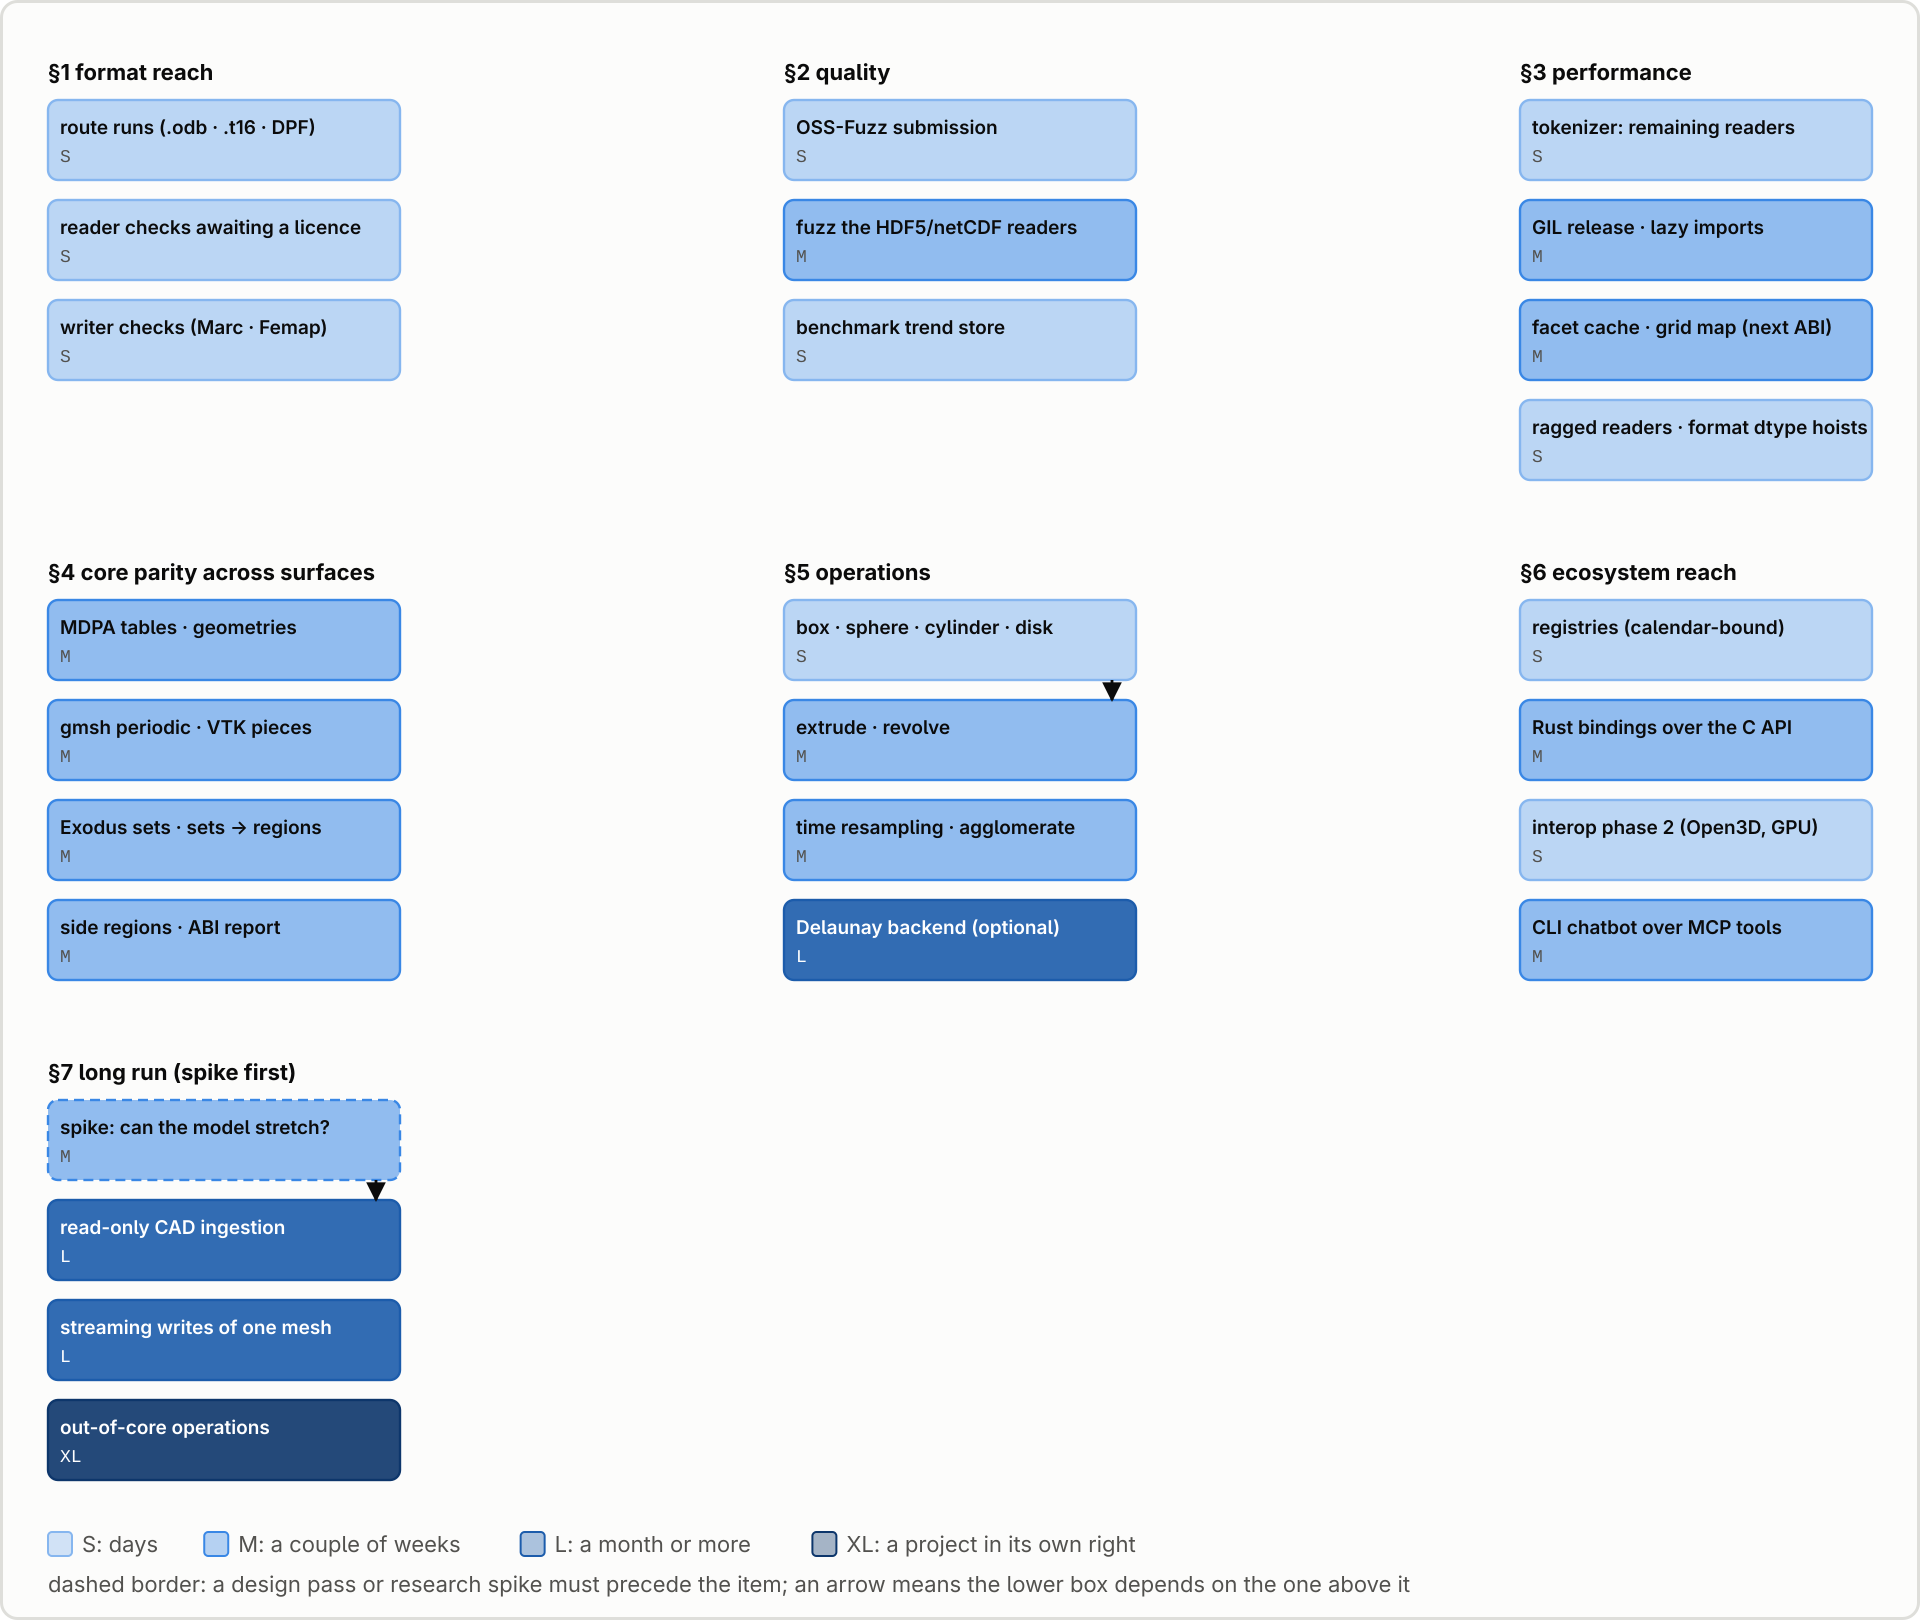
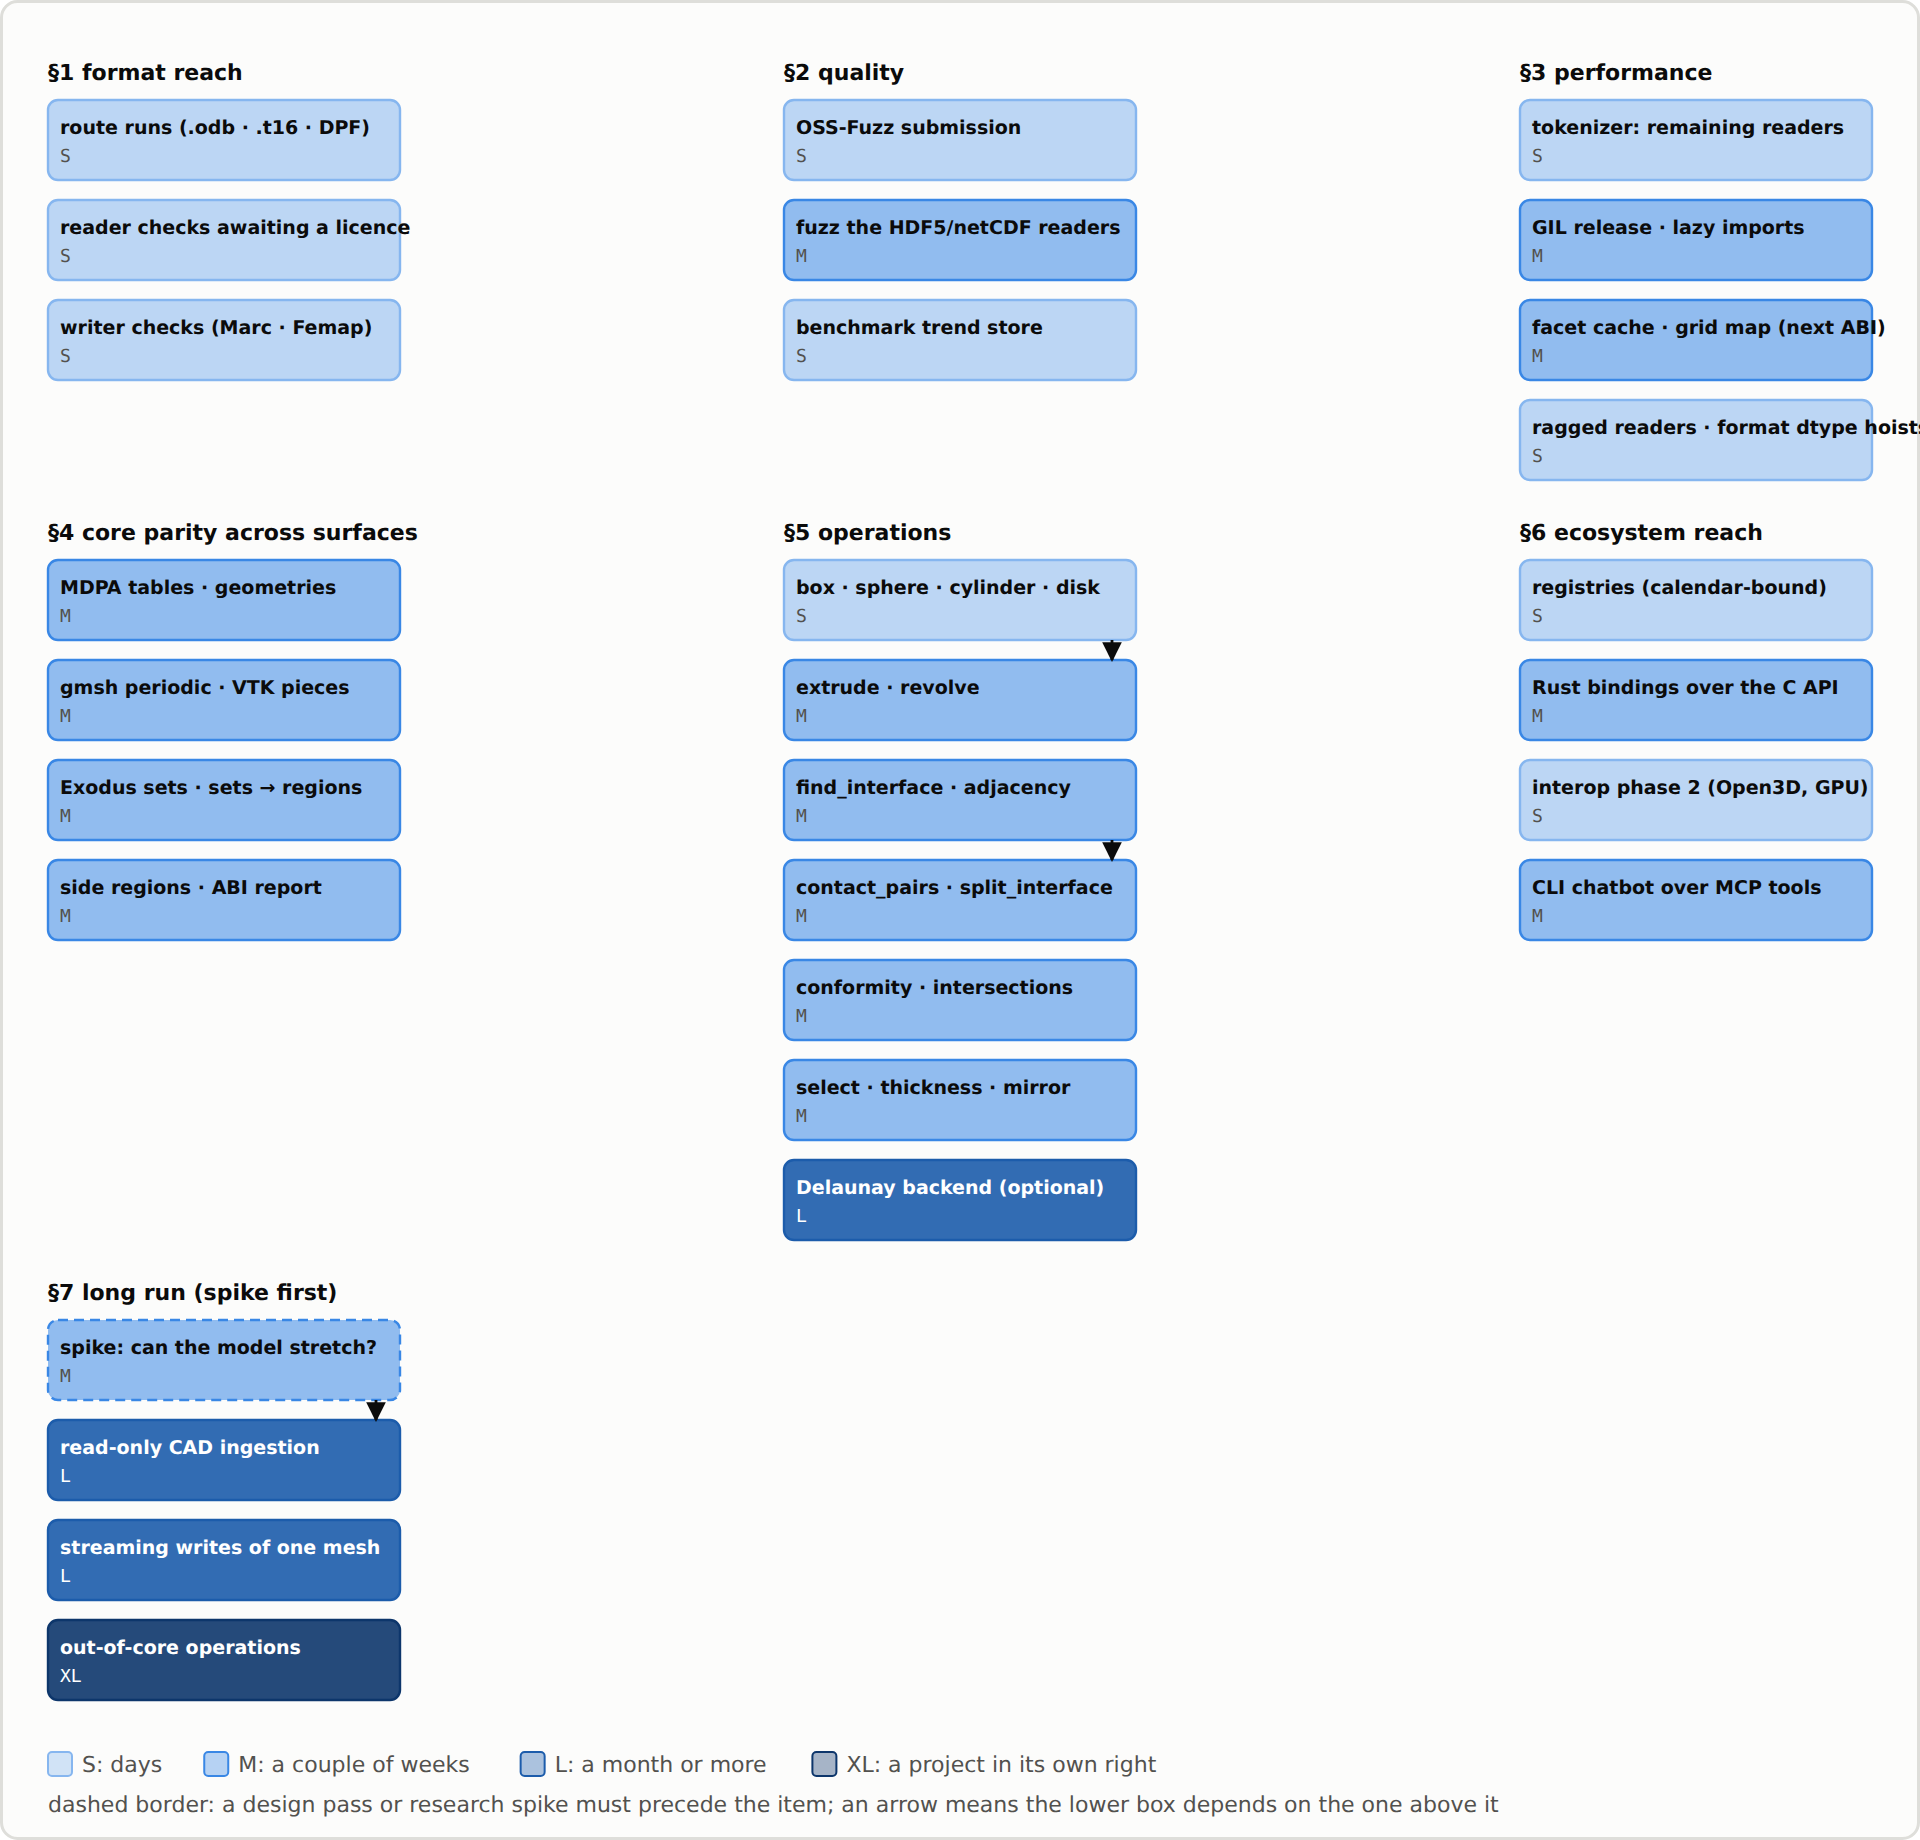
Refactor roadmap visualization and update roadmap documentation
- Removed the Canvas initialization from the roadmap_map function and adjusted the layout to accommodate new items.
- Updated the items in the roadmap to include new interface operations: `find_interface`, `contact_pairs`, and `split_interface`.
- Enhanced the visual representation in the SVG and PNG files to reflect the new structure and items.
- Expanded the roadmap documentation to detail new operations related to interfaces and contact mechanics, including descriptions, inputs, outputs, and probes for each operation.
- Adjusted the order of roadmap items based on consumer demand and dependencies.

diff --git a/doc/diagrams/figures/flows.py b/doc/diagrams/figures/flows.py
@@ -939,11 +939,6 @@ def abi_tiers():
 
 
 def roadmap_map():
-    c = Canvas(
-        960,
-        810,
-        "The roadmap at a glance: open items by section, in recommended order, shaded by effort",
-    )
     columns = [
         (
             "§1 format reach",
@@ -988,10 +983,13 @@ def roadmap_map():
             [
                 ("box · sphere · cylinder · disk", "S"),
                 ("extrude · revolve", "M"),
-                ("time resampling · agglomerate", "M"),
+                ("find_interface · adjacency", "M"),
+                ("contact_pairs · split_interface", "M"),
+                ("conformity · intersections", "M"),
+                ("select · thickness · mirror", "M"),
                 ("Delaunay backend (optional)", "L"),
             ],
-            [(0, 1)],
+            [(0, 1), (2, 3)],
         ),
         (
             "§6 ecosystem reach",
@@ -1018,10 +1016,22 @@ def roadmap_map():
     col_w = 176
     col_gap = (960 - 48 - per_row * col_w) / (per_row - 1)
     box_h = 40
+    # A row is as tall as its tallest column, so a long column pushes the rows
+    # below it down rather than running into them.
+    row_tops = [40]
+    for start in range(0, len(columns), per_row):
+        tallest = max(len(items) for _, items, _ in columns[start : start + per_row])
+        row_tops.append(row_tops[-1] + 10 + tallest * (box_h + 10) + 20)
+    legend_y = row_tops[-1] + 6
+    c = Canvas(
+        960,
+        legend_y + 34,
+        "The roadmap at a glance: open items by section, in recommended order, shaded by effort",
+    )
     for k, (title, items, deps) in enumerate(columns):
         row, col = divmod(k, per_row)
         x = 24 + col * (col_w + col_gap)
-        y0 = 40 + row * 250
+        y0 = row_tops[row]
         c.text(x, y0, title, size=P.SIZE_SMALL, anchor="start", weight="700")
         centres = []
         for i, (label, effort) in enumerate(items):
@@ -1064,7 +1074,7 @@ def roadmap_map():
             c.arrow(ax, ay, ax, ay + 10, stroke=P.INK, sw=1.4)
     c.legend(
         24,
-        776,
+        legend_y,
         [
             (P.EFFORT["S"], "S: days"),
             (P.EFFORT["M"], "M: a couple of weeks"),
@@ -1074,7 +1084,7 @@ def roadmap_map():
     )
     c.label(
         24,
-        796,
+        legend_y + 20,
         "dashed border: a design pass or research spike must precede the item; an arrow means the lower box depends on the one above it",
         anchor="start",
     )

diff --git a/doc/roadmap.md b/doc/roadmap.md
@@ -189,6 +189,28 @@ Two findings frame the section. First, **the serial phases below are deliberate*
 - **`revolve`** — `extrude`'s rotational sibling around an axis, sharing its layer machinery; degenerate cells on the axis are the only new work. **M**
 - **Delaunay / constrained 2-D meshing** — genuinely useful, but robust geometric predicates are where dependency-free stops paying. Better as an optional Triangle or Gmsh backend, off by default, following the KaHIP pattern. **L**
 
+**Interfaces and contact.** Every operation today treats a mesh's surface as its boundary, and none relates two parts. `extract_surface` returns the boundary facets with `surface:parent_cell` but no local facet number, `detail/facet_index.hpp` (`FacetIndex`) finds a facet's owner cells but is not public, `distance_to_surface` and `hausdorff_distance` take two meshes but return distances rather than entities, and `match_periodic_nodes` pairs nodes of two regions. Every kernel an interface operation needs exists; none is public or takes two selections. The probes need only `grid` and `crop`, so none of this waits for the primitive constructors.
+
+- **`region_adjacency`** — which regions, blocks or components of one mesh share facets, with the shared-facet count and area; conforming meshes only. The cheap first step of the next item: it publishes `FacetIndex`'s lookup on every surface (Python, C, Fortran, Julia, R, WASM, both CLIs and MCP). Probe: two `grid` blocks stacked on a shared node layer report one pair. **S**
+- **`find_interface`** — the contact entities between solid parts, such as the facets where two demi-spheres meet. **M** (the conforming mode alone **S**)
+  - **Input.** One mesh and two part selectors (regions, or `split` by block, component or tag), or two meshes.
+  - **Two modes.** `conforming` matches a boundary facet of A with one of B by node set, after `merge(weld=)` or in an already welded mesh, and is exact. `proximity` takes A's boundary facets within `gap_tol` of B's surface whose normals oppose within `angle_tol`, which non-matching meshes need; an optional `overlap_tol` admits small penetration. Tolerances default to a fraction of the mean edge length.
+  - **Output.** The facet surface of the master side (`master=`), with `cell_data` `interface:parent_cell`, `interface:parent_facet` (the local facet number `extract_surface` does not return), `interface:partner_cell` (conforming mode) and `interface:gap`; a `side` region per part ([regions](./regions.md)); and a report with the pair count, area, maximum gap and unmatched counts.
+  - **Reuse.** `extract_surface`, `FacetIndex`, `detail/surface_distance.hpp`, `SpatialGrid`, `detail/region_remap.*` and `_side_carry`.
+  - **Probe.** Two separately meshed demi-spheres meeting on a flat disk: both modes return the disk's facets, and their total area equals the tessellated πr².
+  - **Watch.** Use `surface_distance`'s deterministic equidistant tiebreak, since a BVH's visit order would make it observable; 2-D meshes (the interface is edges) and polyhedra; with more than two parts, report every pair.
+- **`contact_pairs`** — for each node of a slave region, its closest master facet, the local coordinates on it, the gap and the normal: the table a tied or node-to-segment constraint consumes. Extends `distance_to_surface(record_closest_cell=)` with local coordinates and sits beside `match_periodic_nodes`; `find_interface`'s side regions are its natural input. **S–M**
+- **`split_interface`** — duplicate the nodes of selected interface facets so the two sides no longer share them (crack, discontinuous Galerkin and contact set-ups), carrying point data and regions to the copies, and optionally insert zero-thickness cohesive elements (`line` from 2-D, `wedge` or `hexahedron` from triangle and quad facets). Takes `find_interface`'s side region or any `side` region. Watch: the rule where several interfaces meet at an edge or vertex; polyhedra are refused; the new numbering must be deterministic. **M**
+- **Considered, not queued:** mortar segments (overlap polygons with weights) need robust polygon clipping (**L**) and belong behind an optional backend if a consumer asks; contact force, friction and contact search in time belong to the solver ([Non-goals](#non-goals-and-decisions-taken)).
+
+**Checks, selection and measurement.**
+
+- **`check_conformity`** — hanging nodes, T-junctions and interface facets that only partly overlap, so a user knows which `find_interface` mode to choose. It also gives `refine` and `undo_green`, which discuss conformity only in comments, a checker. A report plus a flagging `point_data` array. **S–M**
+- **`find_intersections`** — self-intersection of a surface and mutual interpenetration of two parts, by triangle–triangle tests over the bucket grid. Returns the pairs, the intersection segments as a line mesh and a flagging `cell_data` array, with exact and "possible" hits reported separately because there are no robust predicates; booleans stay a [non-goal](#non-goals-and-decisions-taken). Also the precondition check for `repair`, `shrinkwrap` and `remesh_volume`. Probe: two overlapping spheres. **M**
+- **`select`** — write `Region`s (cell, point or side) from a box, plane or sphere, a `cell_data` or quality threshold, a component label, or normal-angle patch growing bounded by `feature_edges`, so boundary-condition and contact patches are reproducible and feed `find_interface`. Reuses `crop(where=)`'s predicate parser, `feature_edges` and `split(by="component")`. **M**
+- **`thickness`** — wall thickness and inter-part clearance per facet, from a ray along the inward normal to the opposite surface. Needs a ray–triangle kernel that `find_intersections` also needs: write it once in `detail/`. **M**
+- **`mirror`** — reflect across a plane, flipping the winding so the orientation stays valid, optionally welding on the plane: a full model from a half, and the demi-sphere fixture from one hemisphere. **Verify first:** a reflecting `transform` matrix may already flip orientation correctly; probe by mirroring a tetrahedral mesh and asserting positive volumes, and if it does this item shrinks to documentation. **S**
+
 ---
 
 ## 6. Ecosystem reach
@@ -246,6 +268,7 @@ Recorded so they are not re-proposed as gaps.
 - **The Python-only layers stay Python** — `pmsh`, `zarr`, `cae` and `usd`, and the physics-ML surface (`tessellate`, grids, point budgets, proximity graphs, datasets, training) are export targets and tooling for a training pipeline, registered in Python rather than the shared C++ registry. A core kernel they call (the neighbour search in [§3](#_3-performance)) does not change that.
 - **Polyscope in the release CLI binaries** — excluded deliberately, so `view`/`screenshot` there report the build flag rather than opening a window ([viewer](./viewer.md)).
 - **General meshing algorithms as operations** — hex and hex-dominant meshing, boolean/CSG, boundary-layer inflation, quadrangulation and geodesic distance are each a library in their own right; the answer is an optional backend (the KaHIP pattern), not a native implementation.
+- **Contact mechanics itself** — penalty or mortar assembly, friction and contact search in time need a live solver. meshio++ detects and exports the interface of one snapshot ([§5](#_5-operations)); the contact algorithm belongs in the application that owns the solver.
 - **KaHIP in the WASM build** — no Emscripten port, and a graph partitioner would bloat every consumer's bundle; `"auto"` resolving to the SFC method is the answer, and `"kahip"` throwing by name is the contract.
 - **zstd/lz4 codecs, memory mapping and the Kokkos backend under Emscripten** — the codecs have no Emscripten port and are compiled out, CMake refuses the Kokkos backend under Emscripten, and there is nothing to map inside MEMFS.
 - **Single-file output for DOLFIN, TetGen and EnSight from WASM**, or lifting DOLFIN's simplicial restriction — both are facts of the formats; `writeMesh`'s written-paths return value (v11.2.0) is the fix for the bookkeeping they cause.
@@ -263,6 +286,7 @@ Open work only; what shipped is in `CHANGELOG.md`.
 2. **The OSS-Fuzz submission ([§2](#_2-quality-of-implementation))** — calendar-bound, so it runs alongside everything else.
 3. **Performance ([§3](#_3-performance))** — the boundaries, and the tokenizer's remaining readers as they are touched; the operations' layout-bound leftovers with the next ABI bump.
 4. **Primitive constructors ([§5](#_5-operations))** — a few days, and a prerequisite of the conformance matrix, every demo surface and `extrude`/`revolve`.
-5. **Core parity ([§4](#_4-core-parity-across-surfaces))** — the rest by consumer demand.
-6. **Registration ([§6](#_6-ecosystem-reach))** — calendar-bound, so start the submissions early and let them run alongside everything else.
-7. **Long-run spikes ([§7](#_7-long-run-spike-first))** — the benchmark tier decides the scale items; the NURBS spike is scheduled independently of the rest.
+5. **Interfaces ([§5](#_5-operations))** — `region_adjacency`, then `find_interface` in its conforming mode, then proximity, then `contact_pairs`. The probes need only `grid` and `crop`, so it does not wait for the primitives.
+6. **Core parity ([§4](#_4-core-parity-across-surfaces))** — the rest by consumer demand.
+7. **Registration ([§6](#_6-ecosystem-reach))** — calendar-bound, so start the submissions early and let them run alongside everything else.
+8. **Long-run spikes ([§7](#_7-long-run-spike-first))** — the benchmark tier decides the scale items; the NURBS spike is scheduled independently of the rest.
